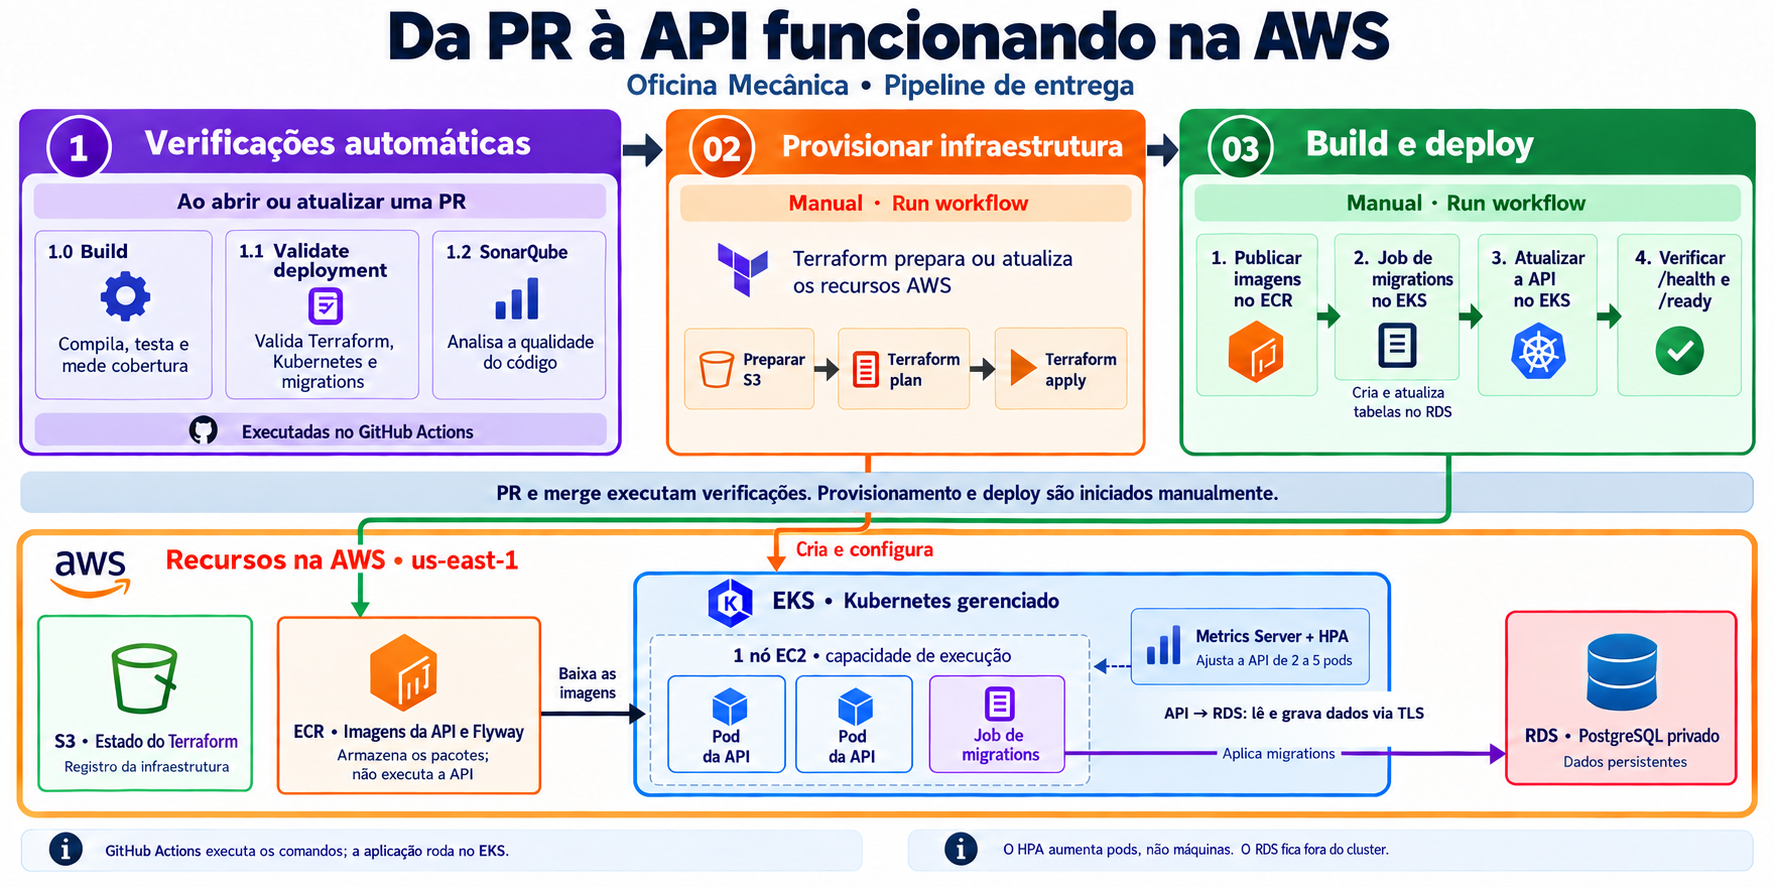
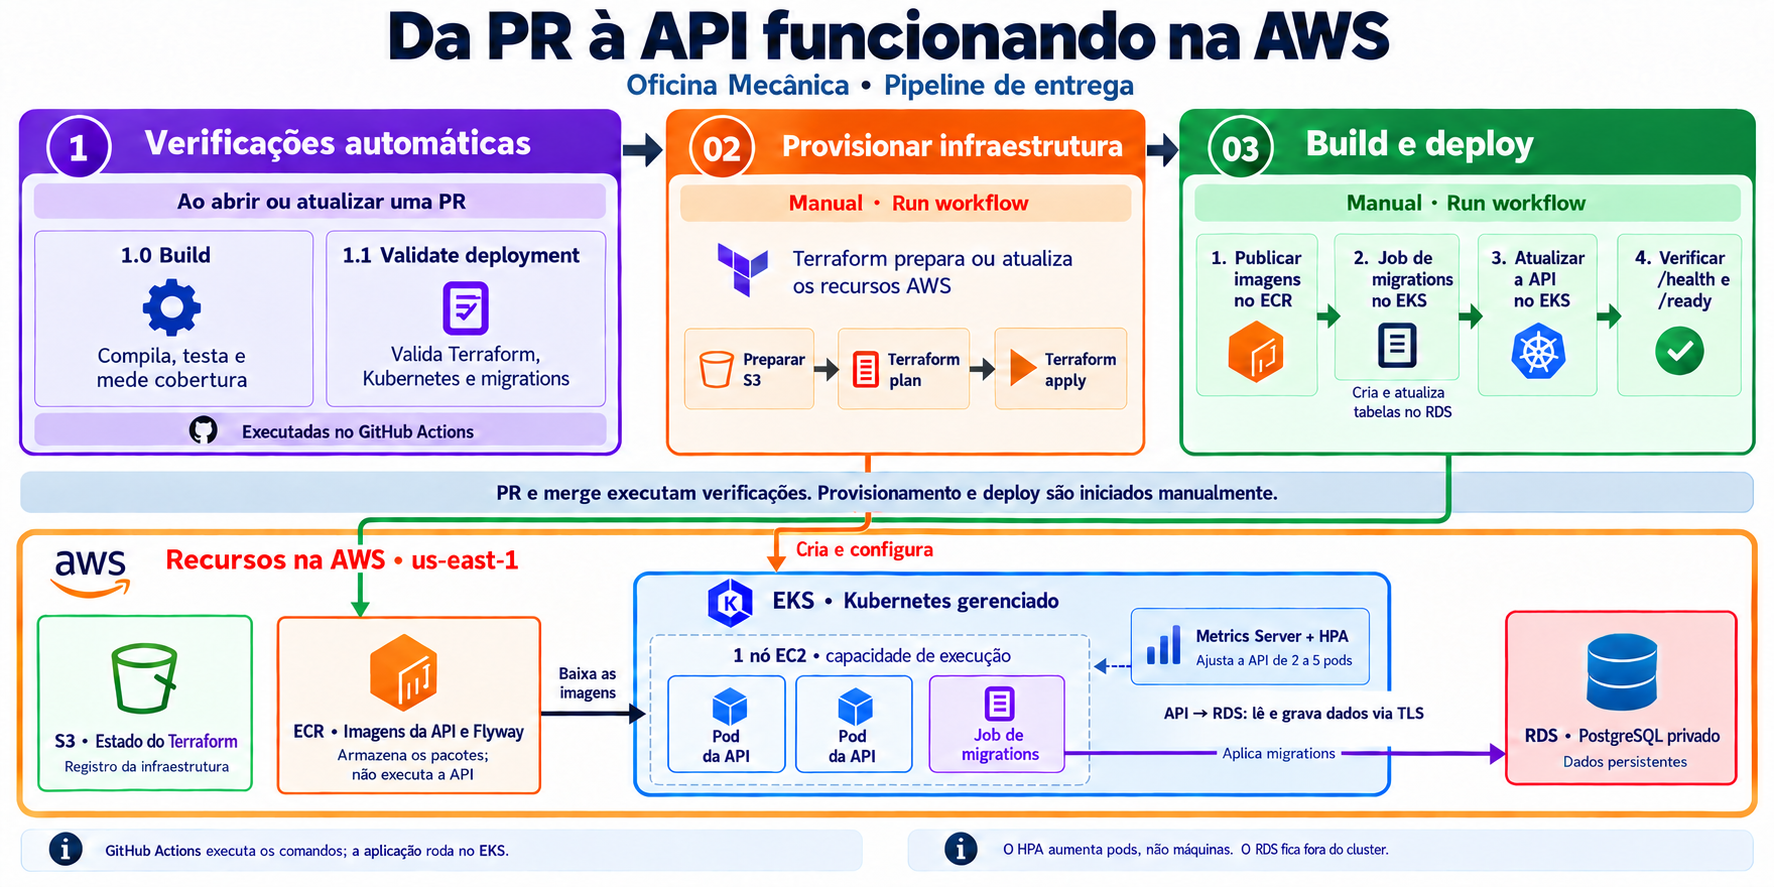
docs: detalha Kubernetes e atualiza imagem da pipeline

diff --git a/README.md b/README.md
@@ -22,6 +22,7 @@ No ambiente local, Kind utiliza Docker como base para executar o cluster.
 - [Por que PostgreSQL](#por-que-postgresql)
 - [Pré-requisitos e execução local](#execucao-local)
 - [Kubernetes local](#kubernetes-local)
+- [Arquivos e recursos Kubernetes](#recursos-kubernetes)
 - [Infraestrutura AWS e Terraform](#infraestrutura-aws)
 - [CI/CD e workflows](#cicd)
 - [APIs e testes](#apis-e-testes)
@@ -165,6 +166,62 @@ Os manifestos são separados em `k8s/base`, `k8s/local` e `k8s/aws`.
 Consulte a [organização Kubernetes](k8s/README.md) antes de aplicar arquivos:
 namespace, credenciais e banco têm recursos gerenciados pelo Terraform.
 
+<a id="recursos-kubernetes"></a>
+
+## 📦 Arquivos e recursos Kubernetes
+
+Terraform prepara o cluster e os recursos de infraestrutura. Os manifestos de
+`k8s/` descrevem como executar a API, suas migrations e os componentes de cada
+ambiente dentro do Kubernetes. O **Kustomize** combina os arquivos compartilhados
+da base com os ajustes locais ou AWS, sem duplicar toda a configuração.
+
+```text
+k8s/
+├── base/
+│   ├── api/
+│   │   ├── deployment.yaml      # Execução, imagem, recursos e saúde da API
+│   │   ├── service.yaml         # Acesso interno estável aos pods da API
+│   │   ├── hpa.yaml             # Ajuste automático entre 2 e 5 réplicas
+│   │   └── kustomization.yaml   # Reúne os recursos da API
+│   ├── config/
+│   │   ├── configmap.yaml       # Configurações comuns sem credenciais
+│   │   └── kustomization.yaml
+│   └── migrations/
+│       ├── job.yaml             # Execução do Flyway para preparar o schema
+│       └── kustomization.yaml
+├── local/
+│   ├── database/                # statefulset.yaml, service.yaml, pv.yaml e pvc.yaml
+│   ├── metrics-server/          # Instalação adaptada ao Kind
+│   ├── migrations/             # Job Flyway para o banco local
+│   ├── namespace.yaml          # Referência do namespace gerenciado pelo Terraform
+│   ├── secret.yaml.example     # Exemplo de credenciais; não contém valores reais
+│   └── kustomization.yaml      # API e ConfigMap do ambiente local
+├── aws/
+│   ├── migrations/             # Job Flyway com TLS e certificado do RDS
+│   ├── verificar-rds.yaml      # Diagnóstico opcional da conexão ao banco
+│   └── kustomization.yaml      # API, Service e HPA com imagem substituída pelo deploy
+├── tests/
+│   └── carga-k6.yaml           # Teste de carga opcional para observar o HPA
+└── README.md                   # Instruções dos manifestos por ambiente
+```
+
+| Recurso Kubernetes | Papel no projeto |
+| --- | --- |
+| **Deployment** | Mantém os pods da API executando e controla a atualização da versão, com verificações de saúde e limites de CPU/memória. |
+| **Service** | Encaminha chamadas aos pods da API por um endereço interno estável. Nosso Service é `ClusterIP`; não cria uma URL pública. |
+| **HPA** | Usa métricas de CPU e memória para ajustar a quantidade de pods da API, com suporte do Metrics Server. |
+| **ConfigMap e Secret** | Fornecem configurações e credenciais aos containers. A base traz configurações comuns; os Secrets reais são criados pelo Terraform. Na AWS, `infra/aws/platform` também cria o ConfigMap com o endereço do RDS. |
+| **Job** | Executa as migrations com Flyway antes da atualização da API. Um erro nessa etapa interrompe o deploy. |
+| **StatefulSet, PV e PVC** | Executam o PostgreSQL e conectam seu armazenamento persistente no Kind. Esses YAMLs são aplicados pelo Terraform local; na AWS, o banco é o RDS, fora do Kubernetes. |
+
+O deploy AWS aplica `k8s/aws/migrations` e depois `k8s/aws`. Esses conjuntos não
+incluem o banco local nem recriam namespace, ConfigMap ou Secret administrados
+pelo Terraform. O diagnóstico do RDS e o teste de carga são executados
+separadamente, quando necessários.
+
+Detalhes e comandos: [manifestos Kubernetes](k8s/README.md) e
+[recursos, diagnóstico e carga](docs/05-kubernetes.md).
+
 <a id="infraestrutura-aws"></a>
 
 ## ☁ Infraestrutura AWS e Terraform
@@ -206,7 +263,7 @@ Na aba **Secrets**, configure:
 | `AWS_JWT_SECRET` | Chave estável da API na AWS, com pelo menos 32 caracteres |
 | `CI_DB_PASSWORD` | Senha do banco temporário dos testes |
 | `JWT_SECRET` | Chave de autenticação dos testes |
-| `SONAR_TOKEN` | Token para análise de qualidade |
+| `SONAR_TOKEN` | Token da análise SonarQube, atualmente desativada |
 
 As credenciais temporárias devem pertencer à conta escolhida e estar válidas.
 Renovar a sessão não exige mudar a senha do banco nem a chave JWT da aplicação.
@@ -294,11 +351,12 @@ Os números dos nomes servem para orientar a execução.
 | --- | --- | --- |
 | **1.0 · 🏗 Build** | PR, push na `main` ou acionamento manual | Compila, executa testes e verifica cobertura mínima de 80% |
 | **1.1 · 🔎 Validate deployment** | PR e push na `main` | Valida workflows, Terraform, manifestos, scripts e migrations |
-| **1.2 · 📊 SonarQube** | Abertura/atualização/reabertura de PR e push na `main` | Analisa qualidade de código |
+| **1.2 · 📊 SonarQube** | **Desativado no GitHub Actions** | Arquivo mantido no repositório para a análise de qualidade |
 | **02 · 🏗 Prepare AWS infrastructure** | Manual | Prepara o S3 internamente e cria ou atualiza a infraestrutura com Terraform |
 | **03 · 🐳 Docker Build and Deploy** | Manual | Publica imagens, executa migrations, atualiza a API e valida `/health` e `/ready` |
 
-As verificações `1.0`, `1.1` e `1.2` podem executar em paralelo.
+As verificações ativas `1.0` e `1.1` podem executar em paralelo. O SonarQube (`1.2`)
+está desativado e não aparece no fluxo ativo da imagem.
 **PR ou merge não dispara provisionamento nem deploy AWS.**
 
 Para instalar em uma conta nova:
@@ -312,11 +370,6 @@ Para instalar em uma conta nova:
 4. Aguarde o término com sucesso. O cluster e o RDS estarão preparados, ainda sem a API.
 5. Execute `03 · Docker Build and Deploy` na mesma conta e revisão aprovada.
 6. Confira a conclusão das migrations, do rollout e das verificações HTTP nos logs.
-
-Não existe workflow separado para preparar o S3: essa preparação faz parte da etapa `02`.
-O deploy exige Build e Validate deployment aprovados para o mesmo commit.
-Ele publica imagens no ECR com tags do commit e aplica migrations antes de atualizar
-os pods da API. Publicar uma imagem no ECR, sozinho, não coloca a API em execução.
 
 Para uma nova versão apenas da aplicação, execute as verificações e o deploy `03`.
 Se houver mudanças na infraestrutura, execute também o provisionamento `02` antes
